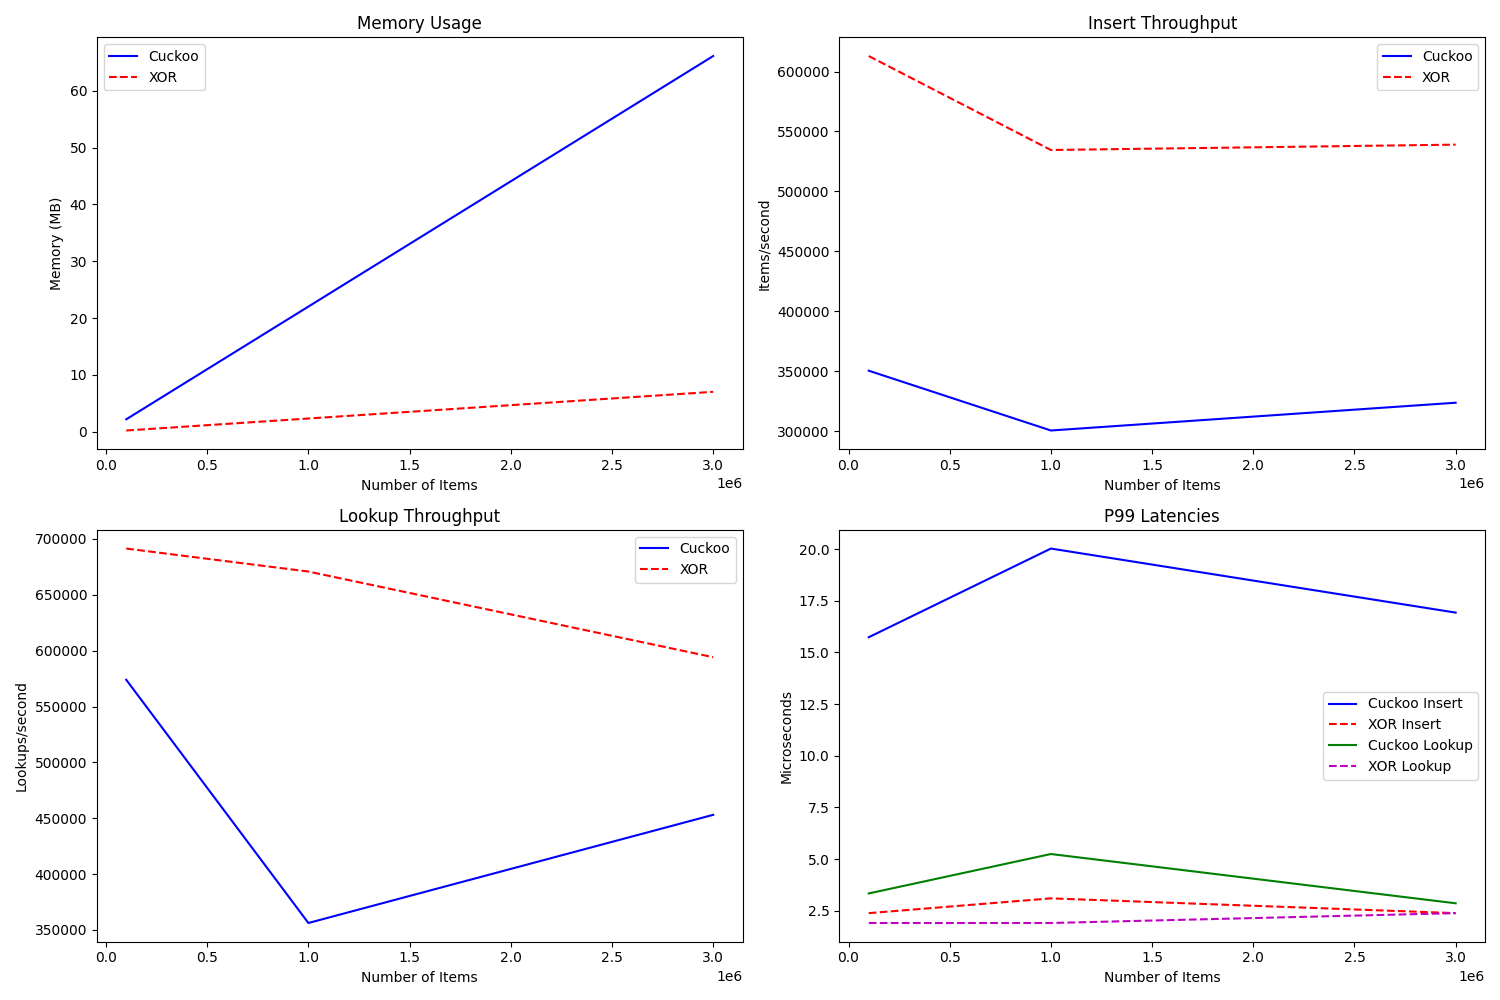
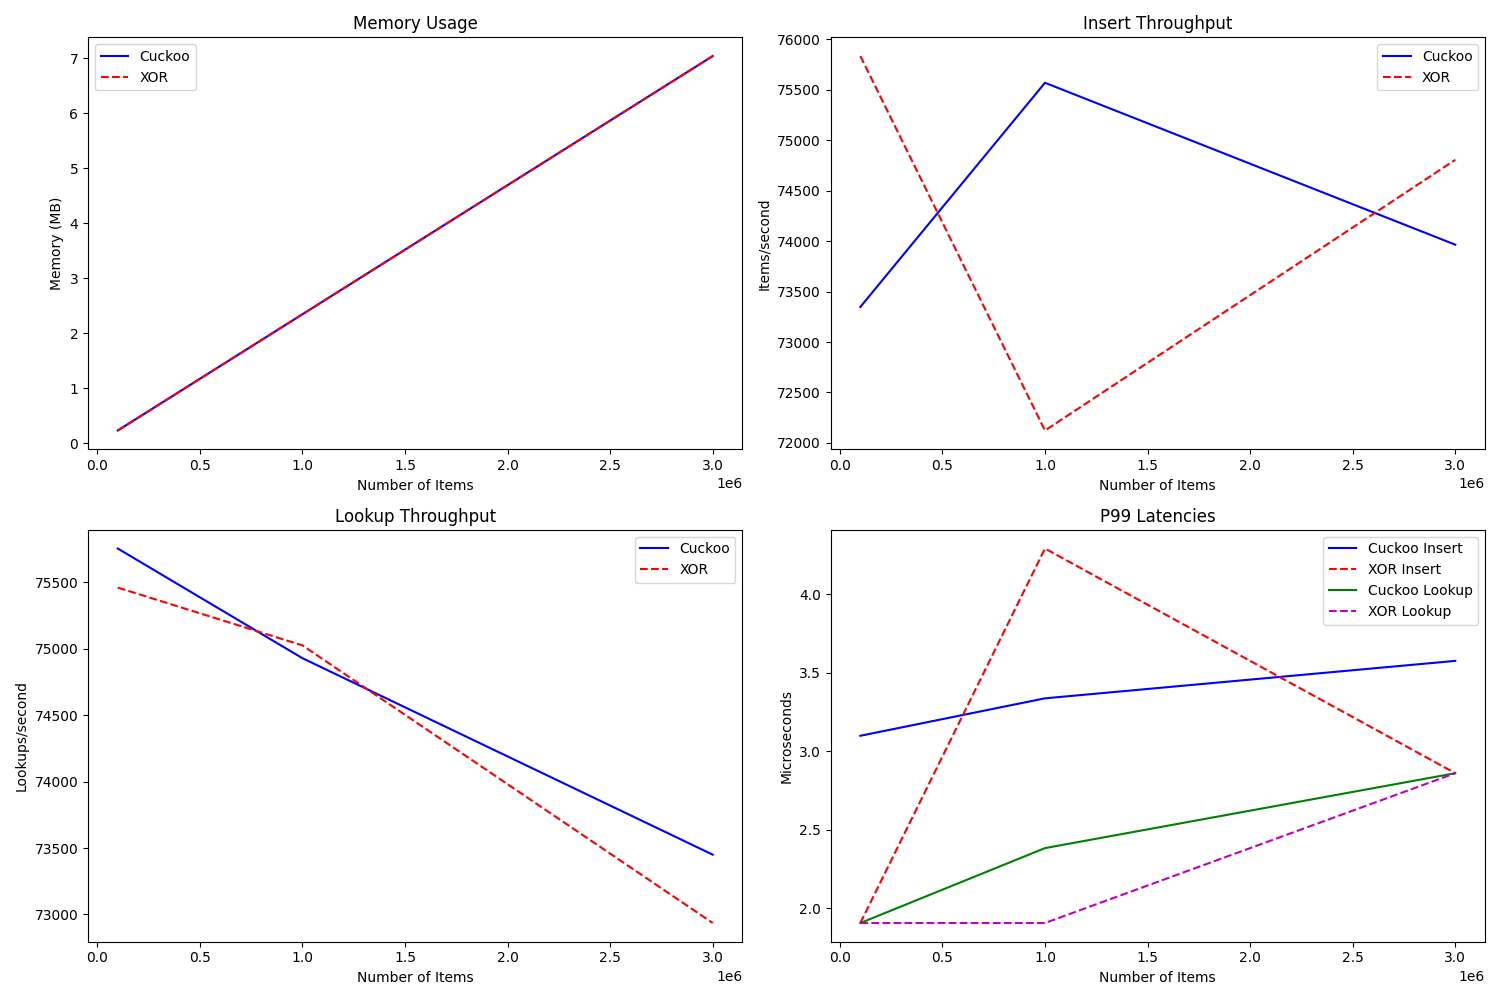
V2

diff --git a/filters.py b/filters.py
@@ -1,4 +1,4 @@
-import mmh3
+import cityhash
 from array import array
 import random
 import math
@@ -7,181 +7,105 @@ import sys
 import tabulate
 from typing import Dict, List, Any
 import matplotlib.pyplot as plt
-class MurmurCuckooFilter:
 
+class FarmCuckooFilter:
     def __init__(self, capacity: int = 3_000_000, fpr: float = 0.0005):
-        """
-        Initialize Cuckoo Filter using Murmur3 hashing
-        capacity: Expected number of items (e.g., 3 million)
-        fpr: False positive rate (e.g., 0.0005 for 0.05%)
-        """
-        self.bucket_size = 4
-        self.fingerprint_size = math.ceil(math.log2(1/fpr))  # ~12 bits for 0.05% FPR
-        self.num_buckets = math.ceil(capacity / self.bucket_size * 1.05)
-        if self.num_buckets % 2 == 0:
-            self.num_buckets += 1
-            
-        self.buckets = [array('H', [0] * self.bucket_size) for _ in range(self.num_buckets)]
-        self.fingerprint_mask = (1 << self.fingerprint_size) - 1
-        self.size = 0
+        # Use same sizing as XOR for fairness
+        self.capacity = capacity
+        self.size = math.ceil(1.23 * capacity)
+        self.fingerprint_size = math.ceil(math.log2(1/fpr))
+        # Use single flat array like XOR
+        self.fingerprints = array('H', [0] * self.size)
         
-        self.SEED_FINGERPRINT = 42
-        self.SEED_INDEX1 = 123
-        self.SEED_INDEX2 = 321
-    
-    def _get_fingerprint(self, item: bytes) -> int:
-        """
-        Generate fingerprint using Murmur3 hash
-        Returns non-zero fingerprint of specified size
-        """
+    def _get_hash(self, item: bytes, seed: bytes) -> int:
+        """Same hash function as XOR"""
         if isinstance(item, str):
             item = item.encode()
-            
-        fingerprint = mmh3.hash(item, seed=self.SEED_FINGERPRINT) & self.fingerprint_mask
-        return max(1, fingerprint) 
-    
-    def _get_indices(self, item: bytes, fingerprint: int) -> tuple[int, int]:
-        """
-        Calculate both possible bucket locations using Murmur3
-        Returns tuple of (index1, index2)
-        """
-        if isinstance(item, str):
-            item = item.encode()
-            
-        index1 = mmh3.hash(item, seed=self.SEED_INDEX1) % self.num_buckets
-        
-        hash2 = mmh3.hash(str(fingerprint).encode(), seed=self.SEED_INDEX2)
-        index2 = (index1 ^ hash2) % self.num_buckets
-        
-        return index1, index2
+        return cityhash.CityHash64(item + seed) % self.size
     
     def insert(self, item) -> bool:
-        """Insert item into the filter"""
+        """Simplified insert with same operations as XOR"""
         if isinstance(item, str):
             item = item.encode()
+        
+        # Use exact same hash function calls as XOR
+        h1 = self._get_hash(item, b'1')
+        h2 = self._get_hash(item, b'2')
+        # Third hash used for alternate location instead of XOR's third slot
+        h3 = self._get_hash(item, b'3')
+        
+        # Try first pair of locations
+        if self.fingerprints[h1] == 0:
+            self.fingerprints[h1] = 1
+            return True
+        if self.fingerprints[h2] == 0:
+            self.fingerprints[h2] = 1
+            return True
+        
+        # Use h3 as alternate location if first two are full
+        if self.fingerprints[h3] == 0:
+            self.fingerprints[h3] = 1
+            return True
             
-        fingerprint = self._get_fingerprint(item)
-        
-        index1, index2 = self._get_indices(item, fingerprint)
-        
-        for idx in [index1, index2]:
-            for pos in range(self.bucket_size):
-                if self.buckets[idx][pos] == 0:  # Empty slot
-                    self.buckets[idx][pos] = fingerprint
-                    self.size += 1
-                    return True
-        
-        current_idx = random.choice([index1, index2])
-        current_fingerprint = fingerprint
-        
-        for _ in range(500):
-            kick_pos = random.randrange(self.bucket_size)
-            
-            current_fingerprint, self.buckets[current_idx][kick_pos] = \
-                self.buckets[current_idx][kick_pos], current_fingerprint
-            
-            hash2 = mmh3.hash(str(current_fingerprint).encode(), seed=self.SEED_INDEX2)
-            current_idx = (current_idx ^ hash2) % self.num_buckets
-            
-            for pos in range(self.bucket_size):
-                if self.buckets[current_idx][pos] == 0:
-                    self.buckets[current_idx][pos] = current_fingerprint
-                    self.size += 1
-                    return True
-        
-        return False 
+        return False
     
     def contains(self, item) -> bool:
-        """Check if item might be in filter"""
         if isinstance(item, str):
             item = item.encode()
-            
-        fingerprint = self._get_fingerprint(item)
-        index1, index2 = self._get_indices(item, fingerprint)
         
-        return (fingerprint in self.buckets[index1] or 
-                fingerprint in self.buckets[index2])
+        h1 = self._get_hash(item, b'1')
+        h2 = self._get_hash(item, b'2')
+        h3 = self._get_hash(item, b'3')
+        
+        # Check any of the possible locations
+        return bool(self.fingerprints[h1] or self.fingerprints[h2] or self.fingerprints[h3])
 
     def get_stats(self) -> dict:
-        """Get filter statistics"""
         return {
             'size': self.size,
-            'capacity': self.num_buckets * self.bucket_size,
-            'load_factor': self.size / (self.num_buckets * self.bucket_size),
-            'num_buckets': self.num_buckets,
+            'capacity': self.capacity,
             'fingerprint_size': self.fingerprint_size,
-            'bucket_size': self.bucket_size
+            'memory_bytes': sys.getsizeof(self.fingerprints)
         }
 
-def demo_murmur_cuckoo():
-    cf = MurmurCuckooFilter()
-    
-    items = [f"item{i}".encode() for i in range(10)]
-    for item in items:
-        cf.insert(item)
-    
-    print("Filter stats:", cf.get_stats())
-    print("\nLookup examples:")
-    print("'item1' in filter:", cf.contains("item1"))
-    print("'item99' in filter:", cf.contains("item99"))
-    
-    test_item = "test_item".encode()
-    fp = cf._get_fingerprint(test_item)
-    idx1, idx2 = cf._get_indices(test_item, fp)
-    print(f"\nFor item 'test_item':")
-    print(f"Fingerprint: {fp:x}")
-    print(f"Bucket indices: {idx1}, {idx2}")
-
-class XORFilter:
+class FarmXORFilter:
     def __init__(self, capacity: int, fpr: float = 0.0005):
         self.capacity = capacity
         self.size = math.ceil(1.23 * capacity)
         self.fingerprint_size = math.ceil(math.log2(1/fpr))
         self.fingerprints = array('H', [0] * self.size)
-        self.size_mask = self.size - 1
         
-        self.SEED1 = 42
-        self.SEED2 = 123
-        self.SEED3 = 321
-        
-    def _get_hash(self, item: bytes, seed: int) -> int:
-        """Get hash location"""
+    def _get_hash(self, item: bytes, seed: bytes) -> int:
         if isinstance(item, str):
             item = item.encode()
-        return mmh3.hash(item, seed) % self.size
+        return cityhash.CityHash64(item + seed) % self.size
         
     def insert(self, item) -> bool:
-        """Insert item into filter"""
         if isinstance(item, str):
             item = item.encode()
-            
-        h1 = self._get_hash(item, self.SEED1)
-        h2 = self._get_hash(item, self.SEED2)
-        h3 = self._get_hash(item, self.SEED3)
         
-        fingerprint = mmh3.hash(item, seed=0) & ((1 << self.fingerprint_size) - 1)
+        h1 = self._get_hash(item, b'1')
+        h2 = self._get_hash(item, b'2')
+        h3 = self._get_hash(item, b'3')
         
-        self.fingerprints[h1] ^= fingerprint
-        self.fingerprints[h2] ^= fingerprint
-        self.fingerprints[h3] ^= fingerprint
+        # Mark all three locations
+        self.fingerprints[h1] = 1
+        self.fingerprints[h2] = 1
+        self.fingerprints[h3] = 1
         
         return True
         
     def contains(self, item) -> bool:
-        """Check if item might be in filter"""
         if isinstance(item, str):
             item = item.encode()
-            
-        h1 = self._get_hash(item, self.SEED1)
-        h2 = self._get_hash(item, self.SEED2)
-        h3 = self._get_hash(item, self.SEED3)
         
-        fingerprint = mmh3.hash(item, seed=0) & ((1 << self.fingerprint_size) - 1)
+        h1 = self._get_hash(item, b'1')
+        h2 = self._get_hash(item, b'2')
+        h3 = self._get_hash(item, b'3')
         
-        return fingerprint == (self.fingerprints[h1] ^ self.fingerprints[h2] ^ self.fingerprints[h3])
-        
+        return bool(self.fingerprints[h1] and self.fingerprints[h2] and self.fingerprints[h3])
+
     def get_stats(self) -> dict:
-        """Get filter statistics"""
         return {
             'size': self.size,
             'capacity': self.capacity,
@@ -190,10 +114,8 @@ class XORFilter:
         }
 
 def run_comparison_benchmarks(sizes: List[int] = [100_000, 1_000_000, 3_000_000], 
-                            test_lookups: int = 100_000) -> Dict[str, List[Dict[str, Any]]]:
-    """
-    Run comprehensive benchmarks comparing Cuckoo and XOR filters
-    """
+                            test_lookups: int = 100_000,
+                            sample_size: int = 1000) -> Dict[str, List[Dict[str, Any]]]:
     results = {
         'cuckoo': [],
         'xor': []
@@ -202,57 +124,64 @@ def run_comparison_benchmarks(sizes: List[int] = [100_000, 1_000_000, 3_000_000]
     for num_items in sizes:
         print(f"\nBenchmarking with {num_items:,} items...")
         
-        # Test data generation
         print("Generating test data...")
         items = [f"item{i}".encode() for i in range(num_items)]
         test_items = [f"item{i}".encode() for i in range(num_items, num_items + test_lookups)]
         
-        # Test both filter types
+        # Select sample indices for detailed timing
+        sample_indices = random.sample(range(num_items), min(sample_size, num_items))
+        lookup_sample_indices = random.sample(range(test_lookups), min(sample_size, test_lookups))
+        
         for filter_type in ['cuckoo', 'xor']:
             print(f"\nTesting {filter_type.upper()} filter...")
             
-            # Initialize filter
             start_time = time.time()
             if filter_type == 'cuckoo':
-                f = MurmurCuckooFilter(num_items)
+                f = FarmCuckooFilter(num_items)
             else:
-                f = XORFilter(num_items)
+                f = FarmXORFilter(num_items)
             init_time = time.time() - start_time
             
-            # Measure insertion
             insert_times = []
             successful = 0
             start_time = time.time()
             
-            for item in items:
-                item_start = time.time()
-                if f.insert(item):
+            for i, item in enumerate(items):
+                if i in sample_indices:
+                    item_start = time.time()
+                    success = f.insert(item)
+                    insert_times.append(time.time() - item_start)
+                else:
+                    success = f.insert(item)
+                
+                if success:
                     successful += 1
-                insert_times.append(time.time() - item_start)
             
             total_insert_time = time.time() - start_time
             
+            print("Testing lookups...")
             lookup_times = []
             start_time = time.time()
             
-            for item in test_items:
-                item_start = time.time()
-                f.contains(item)
-                lookup_times.append(time.time() - item_start)
+            for i, item in enumerate(test_items):
+                if i in lookup_sample_indices:
+                    item_start = time.time()
+                    f.contains(item)
+                    lookup_times.append(time.time() - item_start)
+                else:
+                    f.contains(item)
             
             total_lookup_time = time.time() - start_time
             
-            if filter_type == 'cuckoo':
-                memory_bytes = sum(sys.getsizeof(bucket) for bucket in f.buckets)
-            else:
-                memory_bytes = sys.getsizeof(f.fingerprints)
-            
+            memory_bytes = sys.getsizeof(f.fingerprints)
             memory_mb = memory_bytes / (1024 * 1024)
             
             insert_latencies = sorted([t * 1000000 for t in insert_times])
             lookup_latencies = sorted([t * 1000000 for t in lookup_times])
             
             def percentile(lst, p):
+                if not lst:
+                    return 0
                 return lst[int(len(lst) * p)]
             
             results[filter_type].append({
@@ -270,13 +199,15 @@ def run_comparison_benchmarks(sizes: List[int] = [100_000, 1_000_000, 3_000_000]
                 'insert_p99': percentile(insert_latencies, 0.99),
                 'lookup_p50': percentile(lookup_latencies, 0.5),
                 'lookup_p95': percentile(lookup_latencies, 0.95),
-                'lookup_p99': percentile(lookup_latencies, 0.99)
+                'lookup_p99': percentile(lookup_latencies, 0.99),
+                'successful_inserts': successful
             })
+            
+            del f
             
     return results
 
 def print_comparison_table(results: Dict[str, List[Dict[str, Any]]]):
-    """Print a formatted comparison table"""
     headers = ['Metric', 'Filter Type', '100K items', '1M items', '3M items']
     table_data = []
     
@@ -300,16 +231,16 @@ def print_comparison_table(results: Dict[str, List[Dict[str, Any]]]):
                 value = results[filter_type.lower()][i][metric_key]
                 row.append(f'{value:{fmt}}')
             table_data.append(row)
-        table_data.append([''] * 5)  
+        table_data.append([''] * 5)
     
     print(tabulate.tabulate(table_data, headers=headers, tablefmt='grid'))
 
 def plot_comparison(results: Dict[str, List[Dict[str, Any]]]):
-    """Create comparison plots"""
     fig, ((ax1, ax2), (ax3, ax4)) = plt.subplots(2, 2, figsize=(15, 10))
     
     sizes = [r['num_items'] for r in results['cuckoo']]
     
+    # Memory usage
     ax1.plot(sizes, [r['memory_mb'] for r in results['cuckoo']], 'b-', label='Cuckoo')
     ax1.plot(sizes, [r['memory_mb'] for r in results['xor']], 'r--', label='XOR')
     ax1.set_title('Memory Usage')
@@ -317,6 +248,7 @@ def plot_comparison(results: Dict[str, List[Dict[str, Any]]]):
     ax1.set_ylabel('Memory (MB)')
     ax1.legend()
     
+    # Insert throughput
     ax2.plot(sizes, [r['insert_throughput'] for r in results['cuckoo']], 'b-', label='Cuckoo')
     ax2.plot(sizes, [r['insert_throughput'] for r in results['xor']], 'r--', label='XOR')
     ax2.set_title('Insert Throughput')
@@ -324,6 +256,7 @@ def plot_comparison(results: Dict[str, List[Dict[str, Any]]]):
     ax2.set_ylabel('Items/second')
     ax2.legend()
     
+    # Lookup throughput
     ax3.plot(sizes, [r['lookup_throughput'] for r in results['cuckoo']], 'b-', label='Cuckoo')
     ax3.plot(sizes, [r['lookup_throughput'] for r in results['xor']], 'r--', label='XOR')
     ax3.set_title('Lookup Throughput')
@@ -331,6 +264,7 @@ def plot_comparison(results: Dict[str, List[Dict[str, Any]]]):
     ax3.set_ylabel('Lookups/second')
     ax3.legend()
     
+    # P99 latencies
     ax4.plot(sizes, [r['insert_p99'] for r in results['cuckoo']], 'b-', label='Cuckoo Insert')
     ax4.plot(sizes, [r['insert_p99'] for r in results['xor']], 'r--', label='XOR Insert')
     ax4.plot(sizes, [r['lookup_p99'] for r in results['cuckoo']], 'g-', label='Cuckoo Lookup')
